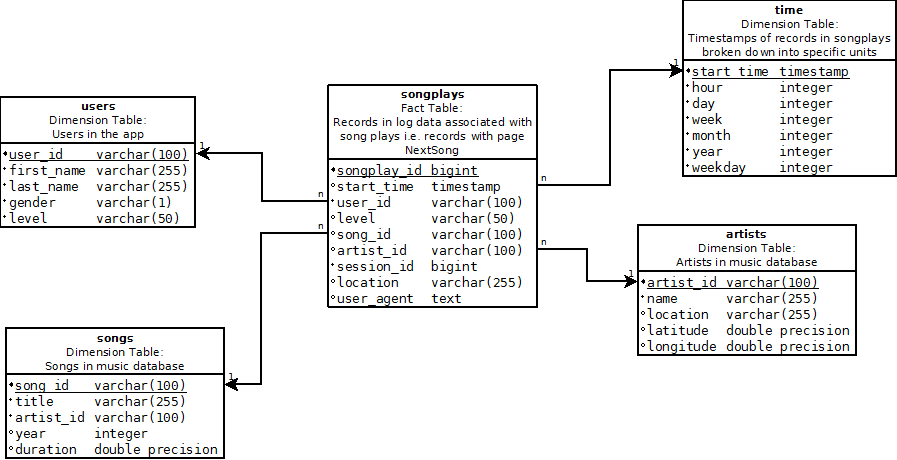
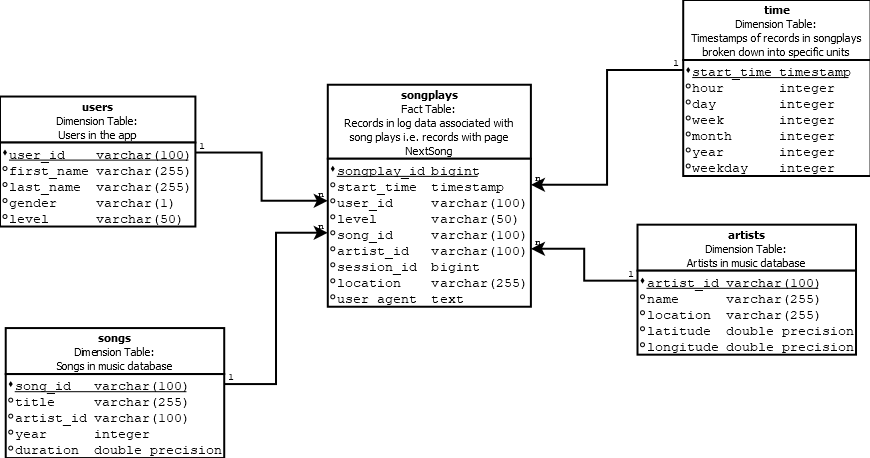
update: fixed insert query (on conflict), fixed schema image

Changed region(s): [[0.0, 0.1223, 0.9931, 1.0], [0.7448, 0.0, 1.0, 0.3974]]

diff --git a/sql_queries.py b/sql_queries.py
@@ -10,68 +10,73 @@ time_table_drop = "DROP TABLE IF EXISTS time"
 songplay_table_create = ("""CREATE TABLE songplays(
 songplay_id SERIAL,
 start_time TIMESTAMP REFERENCES time(start_time),
-user_id VARCHAR(50) REFERENCES users(user_id) ,
+user_id VARCHAR(50) REFERENCES users(user_id),
 level VARCHAR(50),
 song_id VARCHAR(100) REFERENCES songs(song_id),
 artist_id VARCHAR(100) REFERENCES artists(artist_id),
-session_id BIGINT NOT NULL,
-location VARCHAR(255) NOT NULL,
+session_id BIGINT,
+location VARCHAR(255),
 user_agent TEXT,
 PRIMARY KEY (songplay_id))
 """)
 
 user_table_create = ("""CREATE TABLE users(
-user_id VARCHAR NOT NULL,
-firstName VARCHAR(255) NOT NULL,
-lastName VARCHAR(255) NOT NULL,
-gender VARCHAR(1) NOT NULL,
-level VARCHAR(50) NOT NULL,
+user_id VARCHAR,
+firstName VARCHAR(255),
+lastName VARCHAR(255),
+gender VARCHAR(1),
+level VARCHAR(50),
 PRIMARY KEY (user_id))
 """)
 
 song_table_create = ("""CREATE TABLE songs(
-song_id VARCHAR(100) NOT NULL,
-title VARCHAR(255) NOT NULL,
-artist_id VARCHAR(100) NOT NULL,
+song_id VARCHAR(100),
+title VARCHAR(255),
+artist_id VARCHAR(100),
 year INTEGER,
 duration DOUBLE PRECISION,
 PRIMARY KEY (song_id))
 """)
 
 artist_table_create = ("""CREATE TABLE artists(
-artist_id VARCHAR(100) NOT NULL,
-name VARCHAR(255) NOT NULL,
+artist_id VARCHAR(100),
+name VARCHAR(255),
 location VARCHAR(255),
 latitude DOUBLE PRECISION,
 longitude DOUBLE PRECISION,
 PRIMARY KEY (artist_id))
 """)
 
+# The values in this table are autogenerated so we do not need no constraint
 time_table_create = ("""CREATE TABLE time(
-start_time TIMESTAMP NOT NULL,
-hour INTEGER NOT NULL,
-day INTEGER NOT NULL,
-week INTEGER NOT NULL,
-month INTEGER NOT NULL,
-year INTEGER NOT NULL,
-weekday INTEGER NOT NULL,
+start_time TIMESTAMP,
+hour INTEGER,
+day INTEGER,
+week INTEGER,
+month INTEGER,
+year INTEGER,
+weekday INTEGER,
 PRIMARY KEY (start_time))
 """)
 
 # INSERT RECORDS
+songplay_table_insert = ("""INSERT INTO songplays (start_time, user_id, level, song_id, artist_id, session_id, location, user_agent) 
+ VALUES (%s, %s, %s, %s, %s, %s, %s, %s) """)
 
-songplay_table_insert = ("""INSERT INTO songplays (start_time, user_id, level, song_id, artist_id, session_id, location, user_agent) VALUES (%s, %s, %s, %s, %s, %s, %s, %s)
-""")
+user_table_insert = ("""INSERT INTO users (user_id, firstName, lastName, gender, level) VALUES (%s, %s, %s, %s, %s) 
+ON CONFLICT (user_id) DO UPDATE SET firstName=users.firstName, lastName=users.lastName, gender=users.gender, level=users.level """)
 
-user_table_insert = ("""INSERT INTO users (user_id, firstName, lastName, gender, level) VALUES (%s, %s, %s, %s, %s) """)
+song_table_insert = ("""INSERT INTO songs (song_id, title, artist_id, year, duration) VALUES (%s, %s, %s, %s, %s)
+ON CONFLICT (song_id) DO UPDATE SET title=songs.title, artist_id=songs.artist_id,
+year=songs.year, duration=songs.duration """)
 
-song_table_insert = ("""INSERT INTO songs (song_id, title, artist_id, year, duration) VALUES (%s, %s, %s, %s, %s)""")
-
-artist_table_insert = ("""INSERT INTO artists (artist_id, name, location, latitude, longitude) VALUES (%s, %s, %s, %s, %s) """)
-
+artist_table_insert = ("""INSERT INTO artists (artist_id, name, location, latitude, longitude) VALUES (%s, %s, %s, %s, %s)
+ON CONFLICT (artist_id) DO UPDATE SET name=artists.name, location=artists.location, latitude=artists.latitude, 
+longitude=artists.longitude """)
 
 time_table_insert = ("""INSERT INTO time (start_time, hour, day, week, month, year, weekday) VALUES (%s, %s, %s, %s, %s, %s, %s)
-""")
+ON CONFLICT (start_time) DO UPDATE SET hour=time.hour, day=time.day, week=time.week, month=time.month, 
+year=time.year, weekday=time.weekday """)
 
 # FIND SONGS BY SONG_ID AND ARTIST_ID
 song_select_by_song_id_artist_id = ("""SELECT s.song_id, a.artist_id FROM songs s, artists a
@@ -91,15 +96,16 @@ artist_select = ("""SELECT COUNT(*) FROM artists a
 WHERE a.artist_id = %s
 """)
 
+# FIND USER BY ID
 user_select = ("""SELECT COUNT(*) FROM users u
 WHERE u.user_id = %s
 """)
 
+# FIND TIME BY ID
 time_select = ("""SELECT COUNT(*) FROM time t
 WHERE t.start_time = %s
 """)
 
 # QUERY LISTS
-
 create_table_queries = [user_table_create, song_table_create, artist_table_create, time_table_create, songplay_table_create]
 drop_table_queries = [user_table_drop, song_table_drop, artist_table_drop, time_table_drop, songplay_table_drop]

diff --git a/create_tables.py b/create_tables.py
@@ -23,12 +23,14 @@ def create_database():
 
 
 def drop_tables(cur, conn):
+    # drop database tables from drop_table_queries, a list with DROP statements
     for query in drop_table_queries:
         cur.execute(query)
         conn.commit()
 
 
 def create_tables(cur, conn):
+    # create database tables from create_table_queries, a list with INSERT statements
     for query in create_table_queries:
         cur.execute(query)
         conn.commit()
